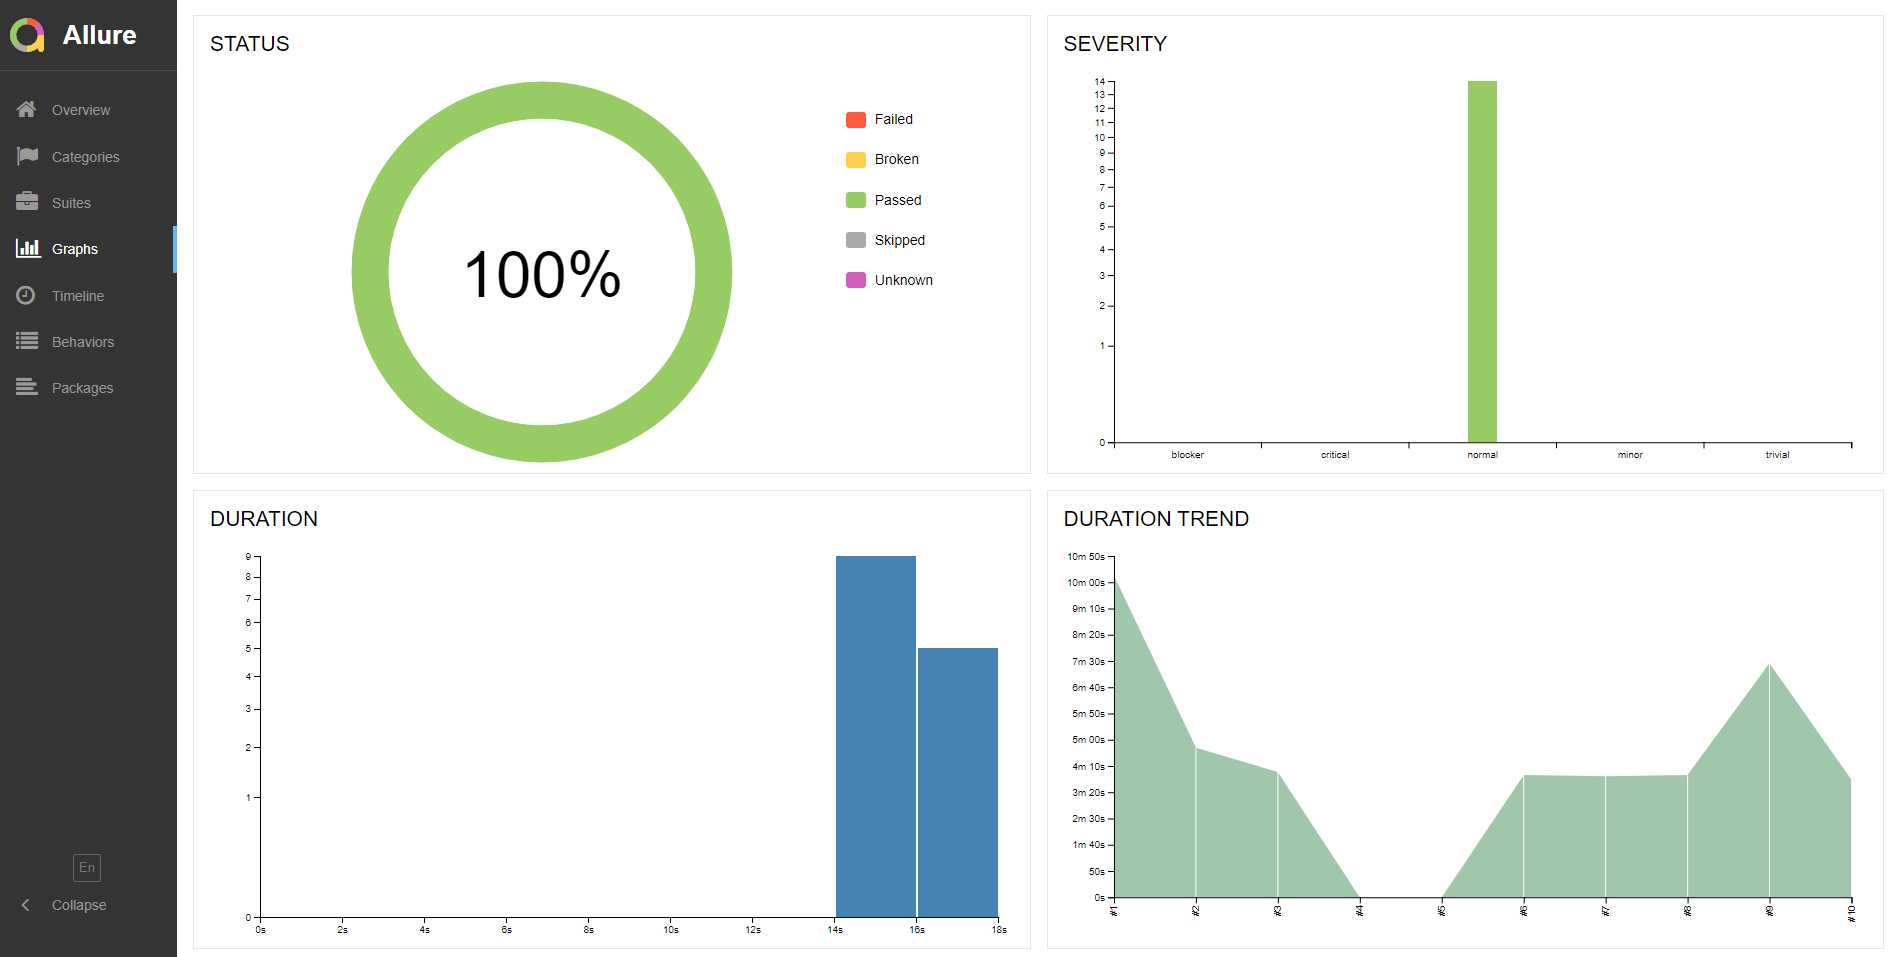
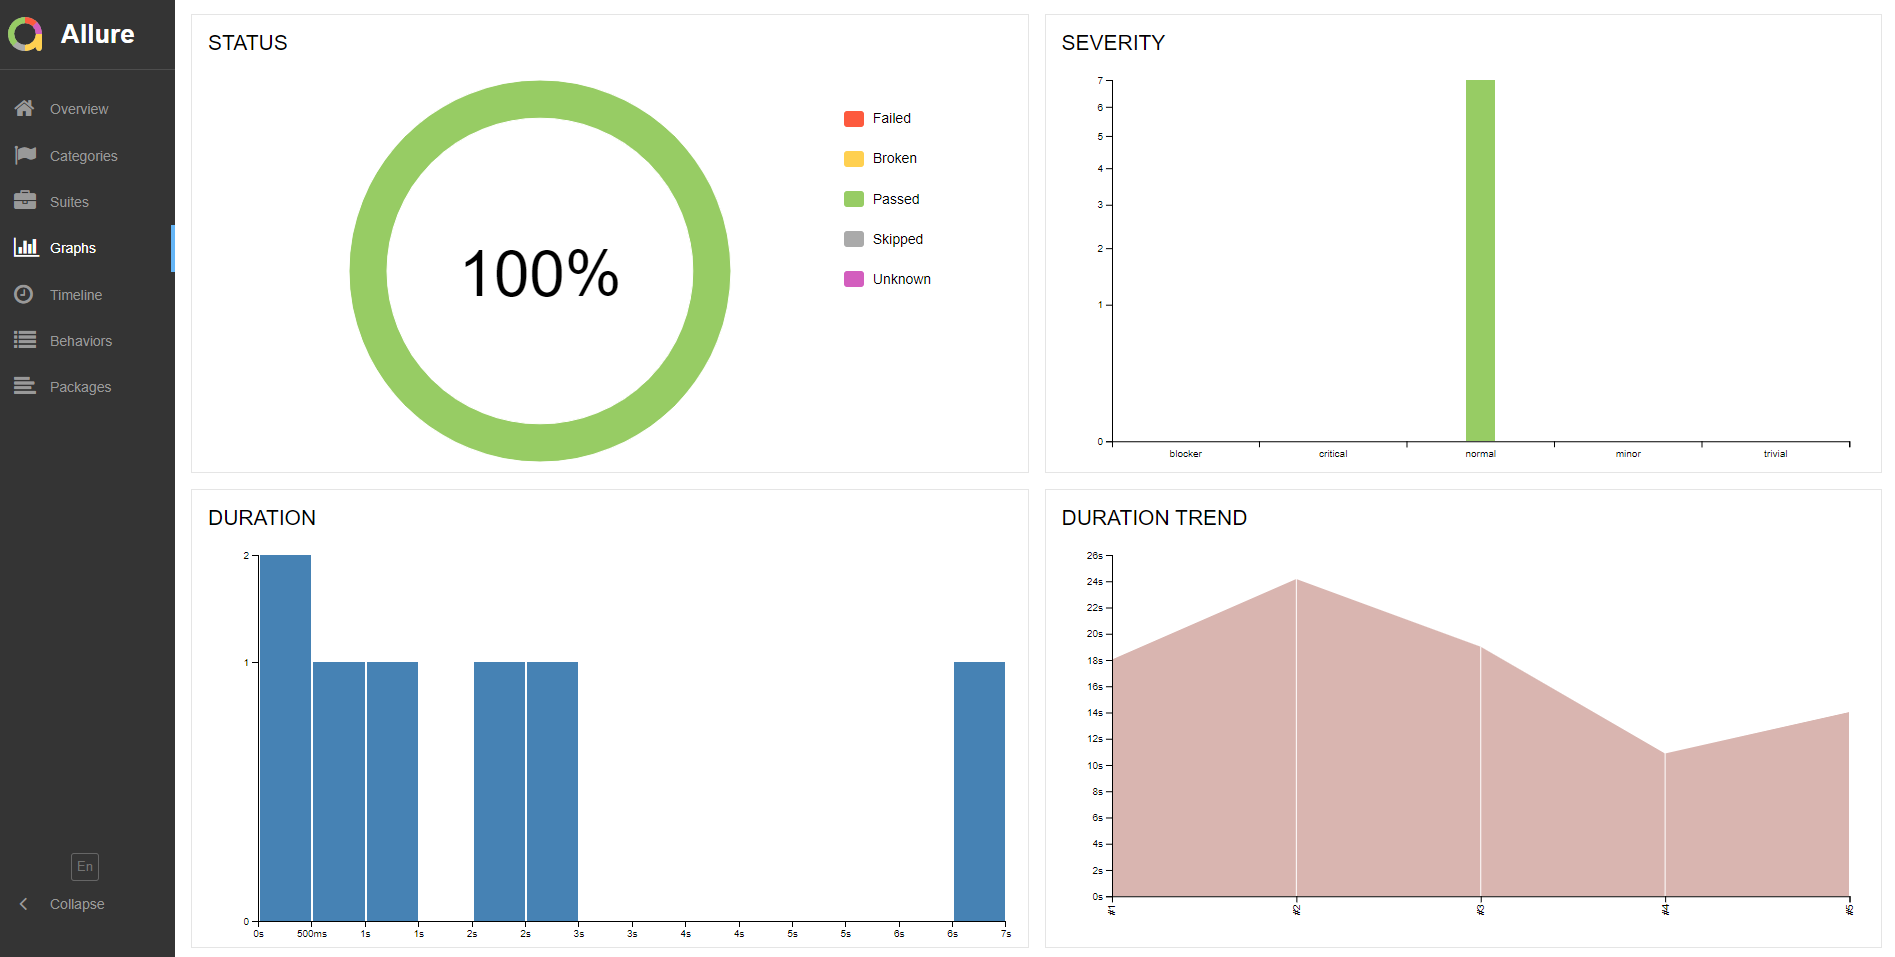
Added edit readme file

diff --git a/src/test/java/tests/ReqresInTests.java b/src/test/java/tests/ReqresInTests.java
@@ -21,8 +21,8 @@ import static specs.Specs.*;
 public class ReqresInTests {
 
     @Test
-    @Tags({@Tag("api"), @Tag("high")})
-    @Severity(SeverityLevel.NORMAL)
+    @Tags({@Tag("api"), @Tag("high"), @Tag("critical")})
+    @Severity(SeverityLevel.CRITICAL)
     @DisplayName("Позитивная проверка регистрации пользователя")
     void checkRegisterSuccessful() {
         AtomicReference<RegLogResponseModel> response = new AtomicReference();
@@ -51,8 +51,8 @@ public class ReqresInTests {
     }
 
     @Test
-    @Tags({@Tag("api"), @Tag("high")})
-    @Severity(SeverityLevel.NORMAL)
+    @Tags({@Tag("api"), @Tag("high"), @Tag("critical")})
+    @Severity(SeverityLevel.CRITICAL)
     @DisplayName("Позитивная проверка авторизации пользователя")
     void checkLoginSuccessful() {
         AtomicReference<RegLogResponseModel> response = new AtomicReference();
@@ -78,7 +78,7 @@ public class ReqresInTests {
     }
 
     @Test
-    @Tags({@Tag("api"), @Tag("high")})
+    @Tags({@Tag("api"), @Tag("high"), @Tag("normal")})
     @Severity(SeverityLevel.NORMAL)
     @DisplayName("Проверка получения информации по пользователю")
     void checkGetSingleUserTest() {
@@ -109,8 +109,8 @@ public class ReqresInTests {
     }
 
     @Test
-    @Tags({@Tag("api"), @Tag("high")})
-    @Severity(SeverityLevel.NORMAL)
+    @Tags({@Tag("api"), @Tag("high"), @Tag("critical")})
+    @Severity(SeverityLevel.CRITICAL)
     @DisplayName("Тест на создание имени и работы пользователя")
     void checkPostCreateTest() {
         AtomicReference<JobResponseModel> response = new AtomicReference();
@@ -138,8 +138,8 @@ public class ReqresInTests {
     }
 
     @Test
-    @Tags({@Tag("api"), @Tag("high")})
-    @Severity(SeverityLevel.NORMAL)
+    @Tags({@Tag("api"), @Tag("high"), @Tag("critical")})
+    @Severity(SeverityLevel.CRITICAL)
     @DisplayName("Негативная проверка создания имени и работы пользователя")
     void checkNegativePostCreateTest() {
         step("Отправка некорректного запроса и проверка статуса кода в ответе", () -> {
@@ -153,8 +153,8 @@ public class ReqresInTests {
     }
 
     @Test
-    @Tags({@Tag("api"), @Tag("high")})
-    @Severity(SeverityLevel.NORMAL)
+    @Tags({@Tag("api"), @Tag("high"), @Tag("critical")})
+    @Severity(SeverityLevel.CRITICAL)
     @DisplayName("Тест на редактирование имени и работы пользователя")
     void checkPutUpdateTest() {
         AtomicReference<JobResponseModel> response = new AtomicReference();
@@ -182,8 +182,8 @@ public class ReqresInTests {
     }
 
     @Test
-    @Tags({@Tag("api"), @Tag("high")})
-    @Severity(SeverityLevel.NORMAL)
+    @Tags({@Tag("api"), @Tag("high"), @Tag("critical")})
+    @Severity(SeverityLevel.CRITICAL)
     @DisplayName("Тест на удаление пользователя")
     void checkDeleteTest() {
         step("Отправка запроса на удаление пользователя и проверка статуса кода в ответе", () -> {

diff --git a/README.md b/README.md
@@ -44,14 +44,14 @@ gradle clean test
 ```
 
 ## <img width="4%" style="vertical-align:middle" title="Jenkins" src="images/logo/Jenkins.svg"> Сборка в Jenkins
-### <a target="_blank" href="https://jenkins.autotests.cloud/job/Auto%20testing%20main%20page%20Pobeda.aero/">*Jenkins job*</a>
+### <a target="_blank" href="https://jenkins.autotests.cloud/job/Yulia%20Orlova%20Project%20auto%20testing%20API%20Reqres.in/">*Jenkins job*</a>
 
 <p align="center">
 <img title="Jenkins Build" src="images/screenshots/jenkinsBuild.png">
 </p>
 
 ## <img width="4%" style="vertical-align:middle" title="Allure Report" src="images/logo/Allure_Report.svg"> Allure-отчет
-### <a target="_blank" href="https://jenkins.autotests.cloud/job/Auto%20testing%20main%20page%20Pobeda.aero/10/allure/">*Overview*</a>
+### <a target="_blank" href="https://jenkins.autotests.cloud/job/Yulia%20Orlova%20Project%20auto%20testing%20API%20Reqres.in/5/allure/">*Overview*</a>
 
 <p align="center">
 <img title="Allure Overview" src="images/screenshots/allureReportMain.png">
@@ -75,13 +75,25 @@ gradle clean test
 ### *Allure TestOps* <a target="_blank" href="https://allure.autotests.cloud/project/1669/dashboards">*Dashboard*</a>
 
 <p align="center">  
-<img title="Allure TestOps Dashboard" src="images/screenshots/AllureTestOpsDashboard.png">  
+<img title="Allure TestOps Dashboard" src="images/screenshots/allureTestOpsDashboard.png">  
 </p>  
 
 ### *Тест кейсы*
 
 <p align="center">  
-<img title="Allure TestOps Tests" src="images/screenshots/AllureTestOpsTestCases.png">  
+<img title="Allure TestOps Tests" src="images/screenshots/allureTestOpsTestCases.png">  
+</p>
+
+### *Запуски*
+
+<p align="center">  
+<img title="Allure TestOps Tests" src="images/screenshots/allureTestOpsLaunches.png">  
+</p>
+
+### *Результаты прохождения тестов*
+
+<p align="center">  
+<img title="Allure TestOps Tests" src="images/screenshots/allureTestOpsResult.png">  
 </p>
 
 ## <img width="4%" style="vertical-align:middle" title="Telegram" src="images/logo/Telegram.svg"> Уведомление в Telegram с использованием бота
